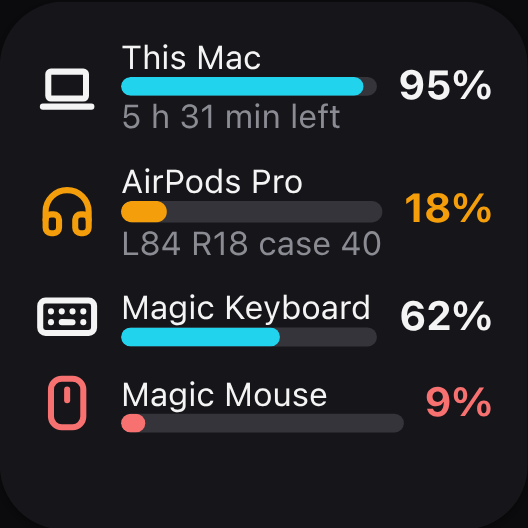
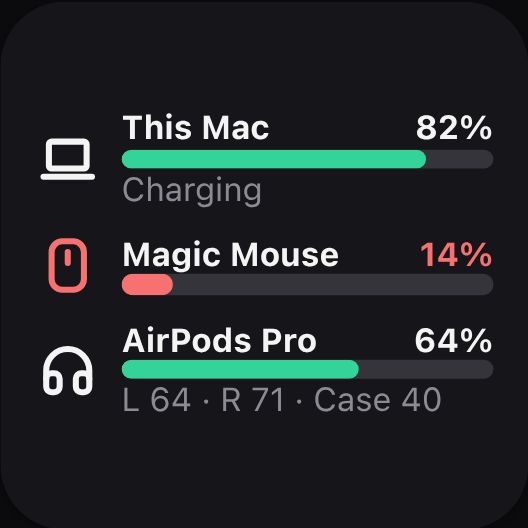
batteries: one clear row per device, tile styles, one row for AirPods
Name, percent and a coloured bar for each device. Styles for 2x2/4x2, 2x1 and 1x1. The case's unnamed Bluetooth LE beacon is no longer a second row, an owner suffix is left out of Apple names, and the Mac is on top with the rest lowest first.

Refs #3

diff --git a/plugins/batteries/src/lib.ts b/plugins/batteries/src/lib.ts
@@ -6,7 +6,7 @@ export const PMSET = "/usr/bin/pmset -g batt";
 export const IOREG = "/usr/sbin/ioreg -r -c AppleDeviceManagementHIDEventService -l";
 export const PROFILER = "/usr/sbin/system_profiler SPBluetoothDataType -json";
 
-export const MAX_DEVICES = 8;
+export const MAX_DEVICES = 7;
 
 export interface Device { name: string; icon: string; percent: number; charging?: boolean; note?: string; mac?: boolean }
 
@@ -23,9 +23,8 @@ export function parsePmset(out: string): Device | null {
   const charging = state === "charging" || state === "finishing charge";
   const onPower = /'AC Power'/.test(out);
   const note = state === "discharging" ? (left ? `${left} left` : "On battery")
-    : charging ? (left ? `${left} to full` : "Charging")
-    : state === "charged" ? "Charged"
-    : onPower ? "Plugged in" : "";
+    : charging ? "Charging"
+    : state === "charged" || onPower ? "Plugged in" : "";
   return { name: "This Mac", icon: "device-laptop", percent: clamp(Number(m[1])), charging, mac: true, ...(note ? { note } : {}) };
 }
 
@@ -58,11 +57,25 @@ const percentOf = (v: unknown): number | null => {
   return m ? clamp(Number(m[1])) : null;
 };
 
-/** Connected Bluetooth devices that report a level. AirPods report each side and the case: the tile shows the lower side. */
+/** macOS also lists the AirPods case as a nameless Bluetooth LE beacon: no type, no product id, only a case level. */
+const isBeacon = (name: string, p: any) => name === "Bluetooth Device" && !p?.device_minorType && !p?.device_productID;
+
+/** "L 64 · R 71 · Case 40", kept short enough for a 2x2 tile when the numbers are long. */
+export function budsNote(left: number | null, right: number | null, box: number | null): string {
+  const tail = box !== null ? [`Case ${box}`] : [];
+  if (left !== null && left === right) return [`L+R ${left}`, ...tail].join(" · ");
+  const join = (space: string) => [...(left !== null ? [`L${space}${left}`] : []), ...(right !== null ? [`R${space}${right}`] : []), ...tail].join(" · ");
+  const wide = join(" ");
+  return wide.length > 22 ? join("") : wide;
+}
+
+/** Connected Bluetooth devices that report a level. AirPods report each side and the case: one device, showing the lower side. */
 export function parseBluetooth(json: string): Device[] {
   let data: any;
   try { data = JSON.parse(json); } catch { throw new Error("Could not read the Bluetooth list"); }
   const found: Device[] = [];
+  const beacons: Device[] = [];
+  let caseSeen = false;
   for (const controller of Array.isArray(data?.SPBluetoothDataType) ? data.SPBluetoothDataType : []) {
     for (const entry of Array.isArray(controller?.device_connected) ? controller.device_connected : []) {
       for (const [rawName, p] of Object.entries<any>(entry ?? {})) {
@@ -73,45 +86,92 @@ export function parseBluetooth(json: string): Device[] {
         const percent = sides.length ? Math.min(...sides) : main ?? box;
         if (percent === null) continue;
         const name = clean(rawName);
-        const note = [left !== null ? `L${left}` : "", right !== null ? `R${right}` : "", (sides.length || main !== null) && box !== null ? `case ${box}` : "", !sides.length && main === null ? "Case" : ""].filter(Boolean).join(" ");
+        const caseOnly = !sides.length && main === null;
+        if (caseOnly && isBeacon(name, p)) { beacons.push({ name: "Earbuds case", icon: "headphones", percent }); continue; }
+        if (box !== null) caseSeen = true;
+        const note = caseOnly ? "Case" : budsNote(left, right, box);
         found.push({ name, icon: iconFor(String(p?.device_minorType ?? ""), name), percent, ...(note ? { note } : {}) });
       }
     }
   }
-  return found;
+  // when a device already tells its case's level, the beacon is that same case: shown only when nothing else does
+  return caseSeen ? found : [...found, ...beacons.slice(0, 1)];
 }
 
-/** The Mac first, then the others by name. A device both tools report is shown once, with the Bluetooth list's detail. */
+/**
+ * "AirPods Pro Thinhcv245" reads as "AirPods Pro". Only for a known Apple model followed by one word that is clearly a user
+ * name (letters and digits together); anything else keeps its full name.
+ */
+export function shortName(name: string): string {
+  const m = /^(AirPods(?: Pro| Max)?(?: [2-4])?|Magic (?:Keyboard|Mouse|Trackpad)(?: [2-4])?) (\S+)$/.exec(name);
+  return m && /[A-Za-z]/.test(m[2]!) && /\d/.test(m[2]!) && !/^(gen\d+|usb-?c|\d+(st|nd|rd|th))$/i.test(m[2]!) ? m[1]! : name;
+}
+
+/**
+ * The Mac first, then the others from the lowest level up (a tile that is too small leaves out the last ones). A device both
+ * tools report is shown once, with the Bluetooth list's detail. Names are shortened unless two devices would end up alike.
+ */
 export function merge(mac: Device | null, bluetooth: Device[], registry: Device[]): Device[] {
   const key = (n: string) => n.toLowerCase();
   const byName = new Map<string, Device>();
   for (const d of [...registry, ...bluetooth]) byName.set(key(d.name), d);
-  const others = [...byName.values()].sort((a, b) => a.name.localeCompare(b.name));
-  return [...(mac ? [mac] : []), ...others];
+  const list = [...byName.values()];
+  const named = list.map((d) => {
+    const short = shortName(d.name);
+    return short !== d.name && list.filter((o) => shortName(o.name) === short).length === 1 ? { ...d, name: short } : d;
+  });
+  named.sort((a, b) => a.percent - b.percent || a.name.localeCompare(b.name));
+  return [...(mac ? [mac] : []), ...named];
 }
 
+export const STYLES = ["details", "compact", "lowest"] as const;
+export type Style = (typeof STYLES)[number];
 
-export const toneFor = (d: Device): "ok" | "warn" | "bad" | "default" => (d.charging ? "ok" : d.percent <= 10 ? "bad" : d.percent <= 20 ? "warn" : "default");
+/** green above half, amber from 20 to 50, red below 20 */
+export const toneFor = (d: Device): "ok" | "warn" | "bad" => (d.percent > 50 ? "ok" : d.percent >= 20 ? "warn" : "bad");
 
-export function buildCard(devices: Device[]): CardData {
-  const shown = devices.slice(0, MAX_DEVICES);
-  // a card holds at most 60 nodes: the second line (time left, each AirPod) is dropped when there are many devices
-  const notes = shown.length <= 6;
-  const children: CardNode[] = shown.map((d) => {
-    const tone = toneFor(d);
-    const toned = tone === "default" ? {} : { tone };
-    const middle: CardNode[] = [
-      { t: "text", text: d.name.slice(0, 200), size: "s" },
-      { t: "progress", value: d.percent / 100, ...toned },
-      ...(notes && d.note ? [{ t: "text", text: d.note, size: "s", tone: "muted" } as CardNode] : []),
-    ];
-    return { t: "row", gap: 2, align: "center", children: [
-      { t: "icon", name: d.charging ? "bolt" : d.icon, ...toned },
-      { t: "col", gap: 0, grow: true, children: middle },
-      { t: "text", text: `${d.percent}%`, bold: true, ...toned },
-    ] };
-  });
+/** the second line of a row; charging is always said, also by a device that has nothing else to say */
+const detailOf = (d: Device): string => d.note ?? (d.charging ? "Charging" : "");
+
+function row(d: Device, details: boolean): CardNode {
+  const tone = toneFor(d);
+  // the bar is always coloured; the icon and the number only when the level needs attention
+  const alert = tone === "ok" ? {} : { tone };
+  const detail = details ? detailOf(d) : "";
+  return { t: "row", gap: 2, align: "center", children: [
+    { t: "icon", name: d.icon, ...alert },
+    { t: "col", gap: 0, grow: true, children: [
+      { t: "row", gap: 1, children: [
+        { t: "col", gap: 0, grow: true, children: [{ t: "text", text: d.name.slice(0, 200), size: "s", bold: true }] },
+        { t: "text", text: `${d.percent}%`, size: "s", bold: true, ...alert },
+      ] },
+      { t: "progress", value: d.percent / 100, tone },
+      ...(detail ? [{ t: "text", text: detail, size: "s", tone: "muted" } as CardNode] : []),
+    ] },
+  ] };
+}
+
+/** For a very small tile: the one battery that needs attention first. */
+function lowest(devices: Device[]): CardData {
+  const d = [...devices].sort((a, b) => a.percent - b.percent)[0];
+  if (!d) return { root: { t: "col", align: "center", children: [{ t: "text", text: "No battery to show", size: "s", tone: "muted" }] } };
+  const tone = toneFor(d);
+  return { root: { t: "col", gap: 1, align: "center", children: [
+    { t: "icon", name: d.icon, ...(tone === "ok" ? {} : { tone }) },
+    { t: "number", value: `${d.percent}%`, size: "xl", ...(tone === "ok" ? {} : { tone }) },
+    { t: "text", text: d.name.slice(0, 200), size: "s", tone: "muted" },
+  ] } };
+}
+
+export function buildCard(devices: Device[], style: Style = "details"): CardData {
+  if (style === "lowest") return lowest(devices);
+  // compact is for a 2x1 tile: two rows, and nothing under them
+  const shown = devices.slice(0, style === "compact" ? 2 : MAX_DEVICES);
+  // a card holds at most 60 parts: with many devices the second lines are left out
+  const details = style === "details" && shown.length <= 6;
+  const children: CardNode[] = shown.map((d) => row(d, details));
   if (!shown.length) children.push({ t: "text", text: "No battery to show", tone: "muted" });
-  if (devices.length > shown.length) children.push({ t: "text", text: `+${devices.length - shown.length} more`, size: "s", tone: "muted" });
-  return { root: { t: "col", gap: 2, children } };
+  if (style !== "compact" && devices.length > shown.length) children.push({ t: "text", text: `+${devices.length - shown.length} more`, size: "s", tone: "muted" });
+  // spacers centre the rows from top to bottom; align: "center" on the column would centre every line of text too
+  return { root: { t: "col", gap: 2, children: [{ t: "spacer" }, ...children, { t: "spacer" }] } };
 }

diff --git a/plugins/batteries/test/batteries.test.ts b/plugins/batteries/test/batteries.test.ts
@@ -1,10 +1,10 @@
 import { describe, expect, test } from "bun:test";
 import { join } from "node:path";
 import { createPlugin } from "../src/index";
-import { IOREG, PMSET, PROFILER, buildCard, merge, parseBluetooth, parseIoreg, parsePmset, toneFor } from "../src/lib";
+import { IOREG, PMSET, PROFILER, STYLES, buildCard, merge, parseBluetooth, parseIoreg, parsePmset, shortName, budsNote, toneFor } from "../src/lib";
 
 const fx = (f: string) => Bun.file(join(import.meta.dir, "fixtures", f)).text();
-const [pm, ioNone, ioMagic, btNone, btOn] = await Promise.all(["pmset-discharging.txt", "ioreg-internal-only.txt", "ioreg-magic.txt", "bluetooth-none-connected.json", "bluetooth-connected.json"].map(fx));
+const [pm, ioNone, ioMagic, btNone, btOn, pods] = await Promise.all(["pmset-discharging.txt", "ioreg-internal-only.txt", "ioreg-magic.txt", "bluetooth-none-connected.json", "bluetooth-connected.json", "bluetooth-airpods.json"].map(fx));
 
 const line = (state: string, source = "AC Power") => `Now drawing from '${source}'\n -InternalBattery-0 (id=1)\t80%; ${state} present: true\n`;
 
@@ -14,10 +14,9 @@ describe("pmset", () => {
     expect(parsePmset(pm!)!.note).toMatch(/^\d+ h \d\d min left$/);
   });
   test("the other states", () => {
-    expect(parsePmset(line("charging; 1:05 remaining"))).toMatchObject({ percent: 80, charging: true, note: "1 h 05 min to full" });
-    expect(parsePmset(line("charging; 0:41 remaining"))!.note).toBe("41 min to full");
+    expect(parsePmset(line("charging; 1:05 remaining"))).toMatchObject({ percent: 80, charging: true, note: "Charging" });
     expect(parsePmset(line("charging; (no estimate)"))!.note).toBe("Charging");
-    expect(parsePmset(line("charged; 0:00 remaining"))!.note).toBe("Charged");
+    expect(parsePmset(line("charged; 0:00 remaining"))!.note).toBe("Plugged in");
     expect(parsePmset(line("AC attached; not charging"))!.note).toBe("Plugged in");
     expect(parsePmset(line("discharging; (no estimate)", "Battery Power"))!.note).toBe("On battery");
   });
@@ -39,21 +38,59 @@ describe("Bluetooth devices", () => {
   });
   test("AirPods show the lower side, with each side and the case", () => {
     const pods = parseBluetooth(btOn!).find((d) => d.name === "AirPods Pro")!;
-    expect(pods).toEqual({ name: "AirPods Pro", icon: "headphones", percent: 18, note: "L95 R18 case 40" });
+    expect(pods).toEqual({ name: "AirPods Pro", icon: "headphones", percent: 18, note: "L 95 · R 18 · Case 40" });
     expect(parseBluetooth(btOn!).find((d) => d.name === "Case Only Buds")).toMatchObject({ percent: 55, note: "Case" });
   });
-  test("a device both tools report is shown once", () => {
+  test("a device both tools report is shown once; the Mac stays on top, then lowest first", () => {
     const all = merge(parsePmset(pm!), parseBluetooth(btOn!), parseIoreg(ioMagic!));
-    expect(all.map((d) => d.name)).toEqual(["This Mac", "AirPods Pro", "Case Only Buds", "Magic Keyboard", "Magic Trackpad"]);
+    expect(all.map((d) => d.name)).toEqual(["This Mac", "Magic Trackpad", "AirPods Pro", "Case Only Buds", "Magic Keyboard"]);
     expect(all.find((d) => d.name === "Magic Keyboard")!.percent).toBe(61);
-    expect(all.map(toneFor)).toEqual(["default", "warn", "default", "default", "bad"]);
+    expect(all.map(toneFor)).toEqual(["ok", "bad", "bad", "ok", "ok"]);
+  });
+  test("tones: green above 50, amber 20 to 50, red below 20", () => {
+    expect([100, 51, 50, 20, 19, 0].map((percent) => toneFor({ name: "x", icon: "x", percent }))).toEqual(["ok", "ok", "warn", "warn", "bad", "bad"]);
+  });
+});
+
+describe("AirPods, as recorded on a Mac", () => {
+  test("one device: the case's own Bluetooth LE beacon is not a second row", () => {
+    expect(parseBluetooth(pods!)).toEqual([{ name: "AirPods Pro", icon: "headphones", percent: 100, note: "L+R 100 · Case 88" }]);
+  });
+  test("the beacon alone is shown as the earbuds case", () => {
+    const only = JSON.parse(pods!);
+    only.SPBluetoothDataType[0].device_connected.shift();
+    expect(parseBluetooth(JSON.stringify(only))).toEqual([{ name: "Earbuds case", icon: "headphones", percent: 88 }]);
+  });
+  test("the detail line stays short enough for a 2x2 tile", () => {
+    expect(budsNote(64, 71, 40)).toBe("L 64 · R 71 · Case 40");
+    expect(budsNote(100, 99, 100)).toBe("L100 · R99 · Case 100");
+    expect(budsNote(null, 100, null)).toBe("R 100");
+  });
+  test("one bud in, and no case level", () => {
+    const one = JSON.stringify({ SPBluetoothDataType: [{ device_connected: [{ "AirPods Pro": { device_minorType: "Headphones", device_batteryLevelRight: "73%" } }] }] });
+    expect(parseBluetooth(one)).toEqual([{ name: "AirPods Pro", icon: "headphones", percent: 73, note: "R 73" }]);
+  });
+  test("an owner suffix is dropped only when it is clearly one", () => {
+    expect(shortName("AirPods Pro Thinhcv245")).toBe("AirPods Pro");
+    expect(shortName("Magic Keyboard nam99")).toBe("Magic Keyboard");
+    for (const keep of ["AirPods Pro", "AirPods Pro 2", "AirPods Max USB-C", "AirPods Pro Office", "AirPods Pro 2nd", "Duy’s AirPods Max", "WH-1000XM4", "JBL LIVE PRO2"]) expect(shortName(keep)).toBe(keep);
+    // two that would look alike keep their full names
+    const two = ["AirPods Pro a1", "AirPods Pro b2"].map((name) => ({ name, icon: "headphones", percent: 50 }));
+    expect(merge(null, two, []).map((d) => d.name)).toEqual(["AirPods Pro a1", "AirPods Pro b2"]);
   });
 });
 
 describe("the card", () => {
+  test("compact has no second lines; lowest shows only the lowest battery", () => {
+    const list = [{ name: "This Mac", icon: "device-laptop", percent: 80, note: "Charging" }, { name: "Mouse", icon: "mouse", percent: 9 }];
+    expect(JSON.stringify(buildCard(list, "compact"))).not.toContain("Charging");
+    const low = JSON.stringify(buildCard(list, "lowest"));
+    expect(low).toContain('"value":"9%"');
+    expect(low).not.toContain("This Mac");
+  });
   test("many devices still fit the card limits", () => {
-    for (const n of [0, 1, 6, 8, 30]) {
-      const card = buildCard(Array.from({ length: n }, (_, i) => ({ name: `Device ${i}`, icon: "bluetooth", percent: 50, note: "note" })));
+    for (const [n, style] of [0, 1, 6, 7, 8, 30].flatMap((n) => STYLES.map((s) => [n, s] as const))) {
+      const card = buildCard(Array.from({ length: n }, (_, i) => ({ name: `Device ${i}`, icon: "bluetooth", percent: 50, note: "note" })), style);
       let nodes = 0, depth = 0;
       const walk = (x: any, d: number) => { nodes++; depth = Math.max(depth, d); for (const c of x.children ?? []) walk(c, d + 1); };
       walk(card.root, 1);

diff --git a/plugins/batteries/src/index.ts b/plugins/batteries/src/index.ts
@@ -1,5 +1,5 @@
 import type { PluginContext, PluginModule, Settings } from "@nookdeck/plugin";
-import { IOREG, PMSET, PROFILER, buildCard, merge, parseBluetooth, parseIoreg, parsePmset, type Device } from "./lib";
+import { IOREG, PMSET, PROFILER, STYLES, buildCard, merge, parseBluetooth, parseIoreg, parsePmset, type Device, type Style } from "./lib";
 
 export function createPlugin(): PluginModule {
   return {
@@ -26,7 +26,8 @@ export function createPlugin(): PluginModule {
           read<Device[]>(IOREG, parseIoreg, []),
         ]);
         if (failed === 3) throw new Error("Could not read any battery");
-        return { render: "card", data: buildCard(merge(s.showMac === false ? null : mac, bluetooth, registry)) };
+        const style = STYLES.includes(s.style as Style) ? (s.style as Style) : "details";
+        return { render: "card", data: buildCard(merge(s.showMac === false ? null : mac, bluetooth, registry), style) };
       }, { every: 60 });
     },
   };

diff --git a/plugins/batteries/README.md b/plugins/batteries/README.md
@@ -2,20 +2,31 @@
 
 Battery levels on one tile. macOS only.
 
-<img src="preview.png" width="264" alt="A 2x2 Batteries tile with demo data: a Mac, AirPods Pro, a Magic Keyboard and a Magic Mouse">
+<img src="preview.png" width="264" alt="A 2x2 Batteries tile with demo data: a charging Mac, a Magic Mouse low on battery and AirPods Pro">
 
 - **This Mac:** percent, charging, and the time left when macOS has an estimate. A Mac without a battery shows only devices.
 - **Magic Keyboard, Mouse and Trackpad**, and other Bluetooth devices that tell macOS their level.
-- **AirPods:** the lower of the two sides, with left (L), right (R) and case under the name.
+- **AirPods:** one row, showing the lower of the two sides, with left (L), right (R) and case under the bar. "L+R" means both sides are the same. With one earbud in, only that side is shown. The unnamed "Bluetooth Device" macOS also lists for the case is not shown twice.
+- An owner's name after an Apple model name, as in "AirPods Pro nam99", is left out.
 
-A device that is not connected is hidden. A device that does not report a level to macOS cannot be shown. The tile refreshes every 60 seconds.
+The Mac is on top, then the other devices from the lowest level up. A device that is not connected is hidden. A device that does not report a level to macOS cannot be shown. The tile refreshes every 60 seconds.
 
-Red is 10% or less, amber 20% or less. With more than six devices the second line is left out, and the tile shows at most eight.
+The bar is green above 50%, amber from 20% to 50% and red below 20%. In amber and red, the icon and the number take the color too.
 
 ## Access
 
 `shell`: `pmset -g batt`, `ioreg -r -c AppleDeviceManagementHIDEventService -l` and `system_profiler SPBluetoothDataType -json`. All three only read. Their output includes device addresses and serial numbers: the plugin does not save, log or send them. Only names and levels go to the phone.
 
 ## Tile settings
+
+**Style**: the plugin is not told how large its tile is, so choose the style that fits.
+
+| Style | Tile | Shows |
+|---|---|---|
+| `details` (default) | 2x2, 4x2 | Each device with its bar and a second line. A 2x2 tile fits three devices. |
+| `compact` | 2x1 | The first two devices of the list, without the second line. |
+| `lowest` | 1x1 | Only the lowest battery: icon, percent and name. |
+
+With more than six devices the second line is left out. The `details` style shows at most seven and counts the rest.
 
 **Show this Mac's battery**: turn it off to show only accessories.

diff --git a/plugins/batteries/test/fixtures/README.md b/plugins/batteries/test/fixtures/README.md
@@ -1,3 +1,6 @@
 `pmset-discharging.txt`, `ioreg-internal-only.txt` and `bluetooth-none-connected.json` were recorded on a MacBook (names replaced,
 addresses and serial numbers removed). `ioreg-magic.txt` and `bluetooth-connected.json` are constructed in the same formats,
 because no Magic device or AirPods was connected when recording.
+
+`bluetooth-airpods.json` was recorded with AirPods Pro connected (owner name removed, no addresses or serial numbers). It has
+the AirPods and the nameless Bluetooth LE beacon macOS lists for their case.
